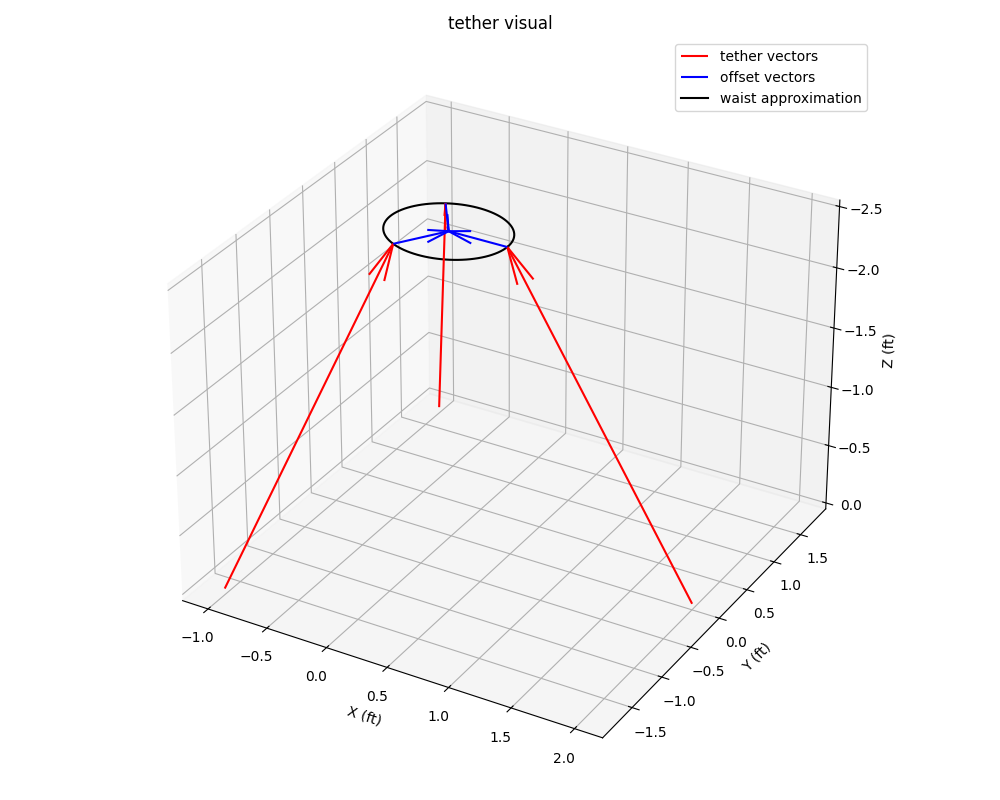
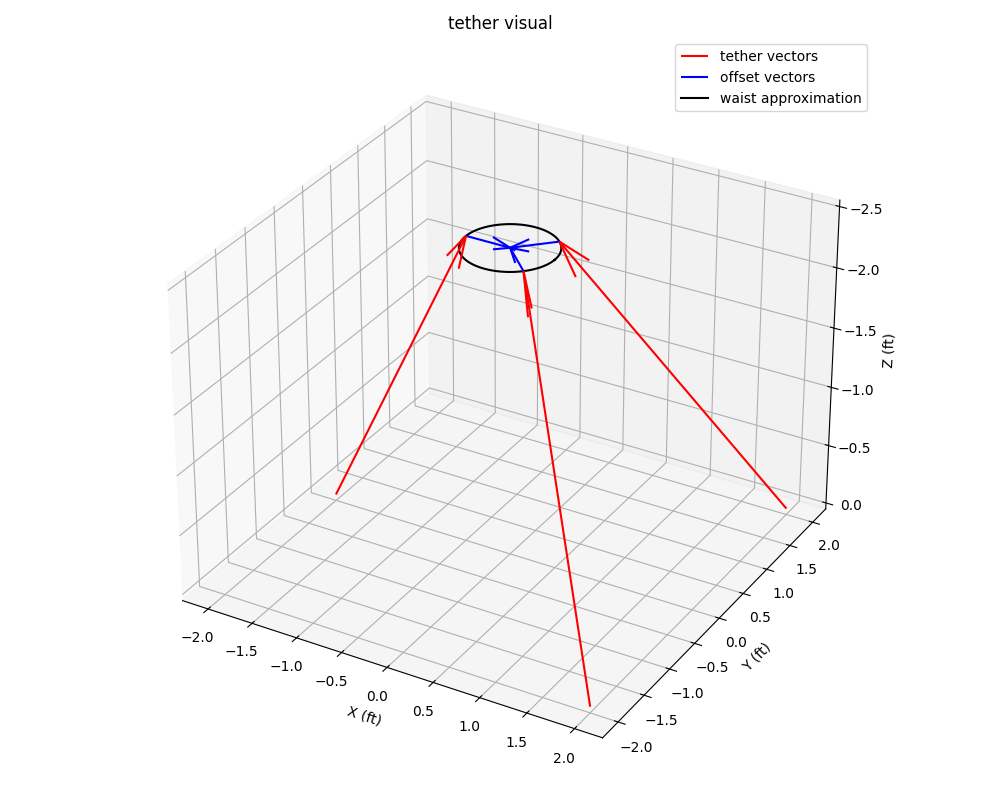
3d visual updated

diff --git a/modeling/dynamic_models/visuals.py b/modeling/dynamic_models/visuals.py
@@ -1,7 +1,7 @@
 import numpy as np
 import matplotlib.pyplot as plt
 from mpl_toolkits.mplot3d import Axes3D
-import Parameters
+import Parameters_3_Tether_Dynamic_Model
 
 def calculate_tether_vecs(COM, teth_anchor, offset):
     # determine the tether unit vector
@@ -63,7 +63,7 @@ def plot_tether_init_setup(teth_anchor, offset, COM, r):
 
 def main():
     COM = [0, 0, -2.5]
-    p = Parameters.Parameters()
+    p = Parameters_3_Tether_Dynamic_Model.Parameters()
     teth_anchor = p.teth_anchor
     offset = p.offset
     r = p.r
